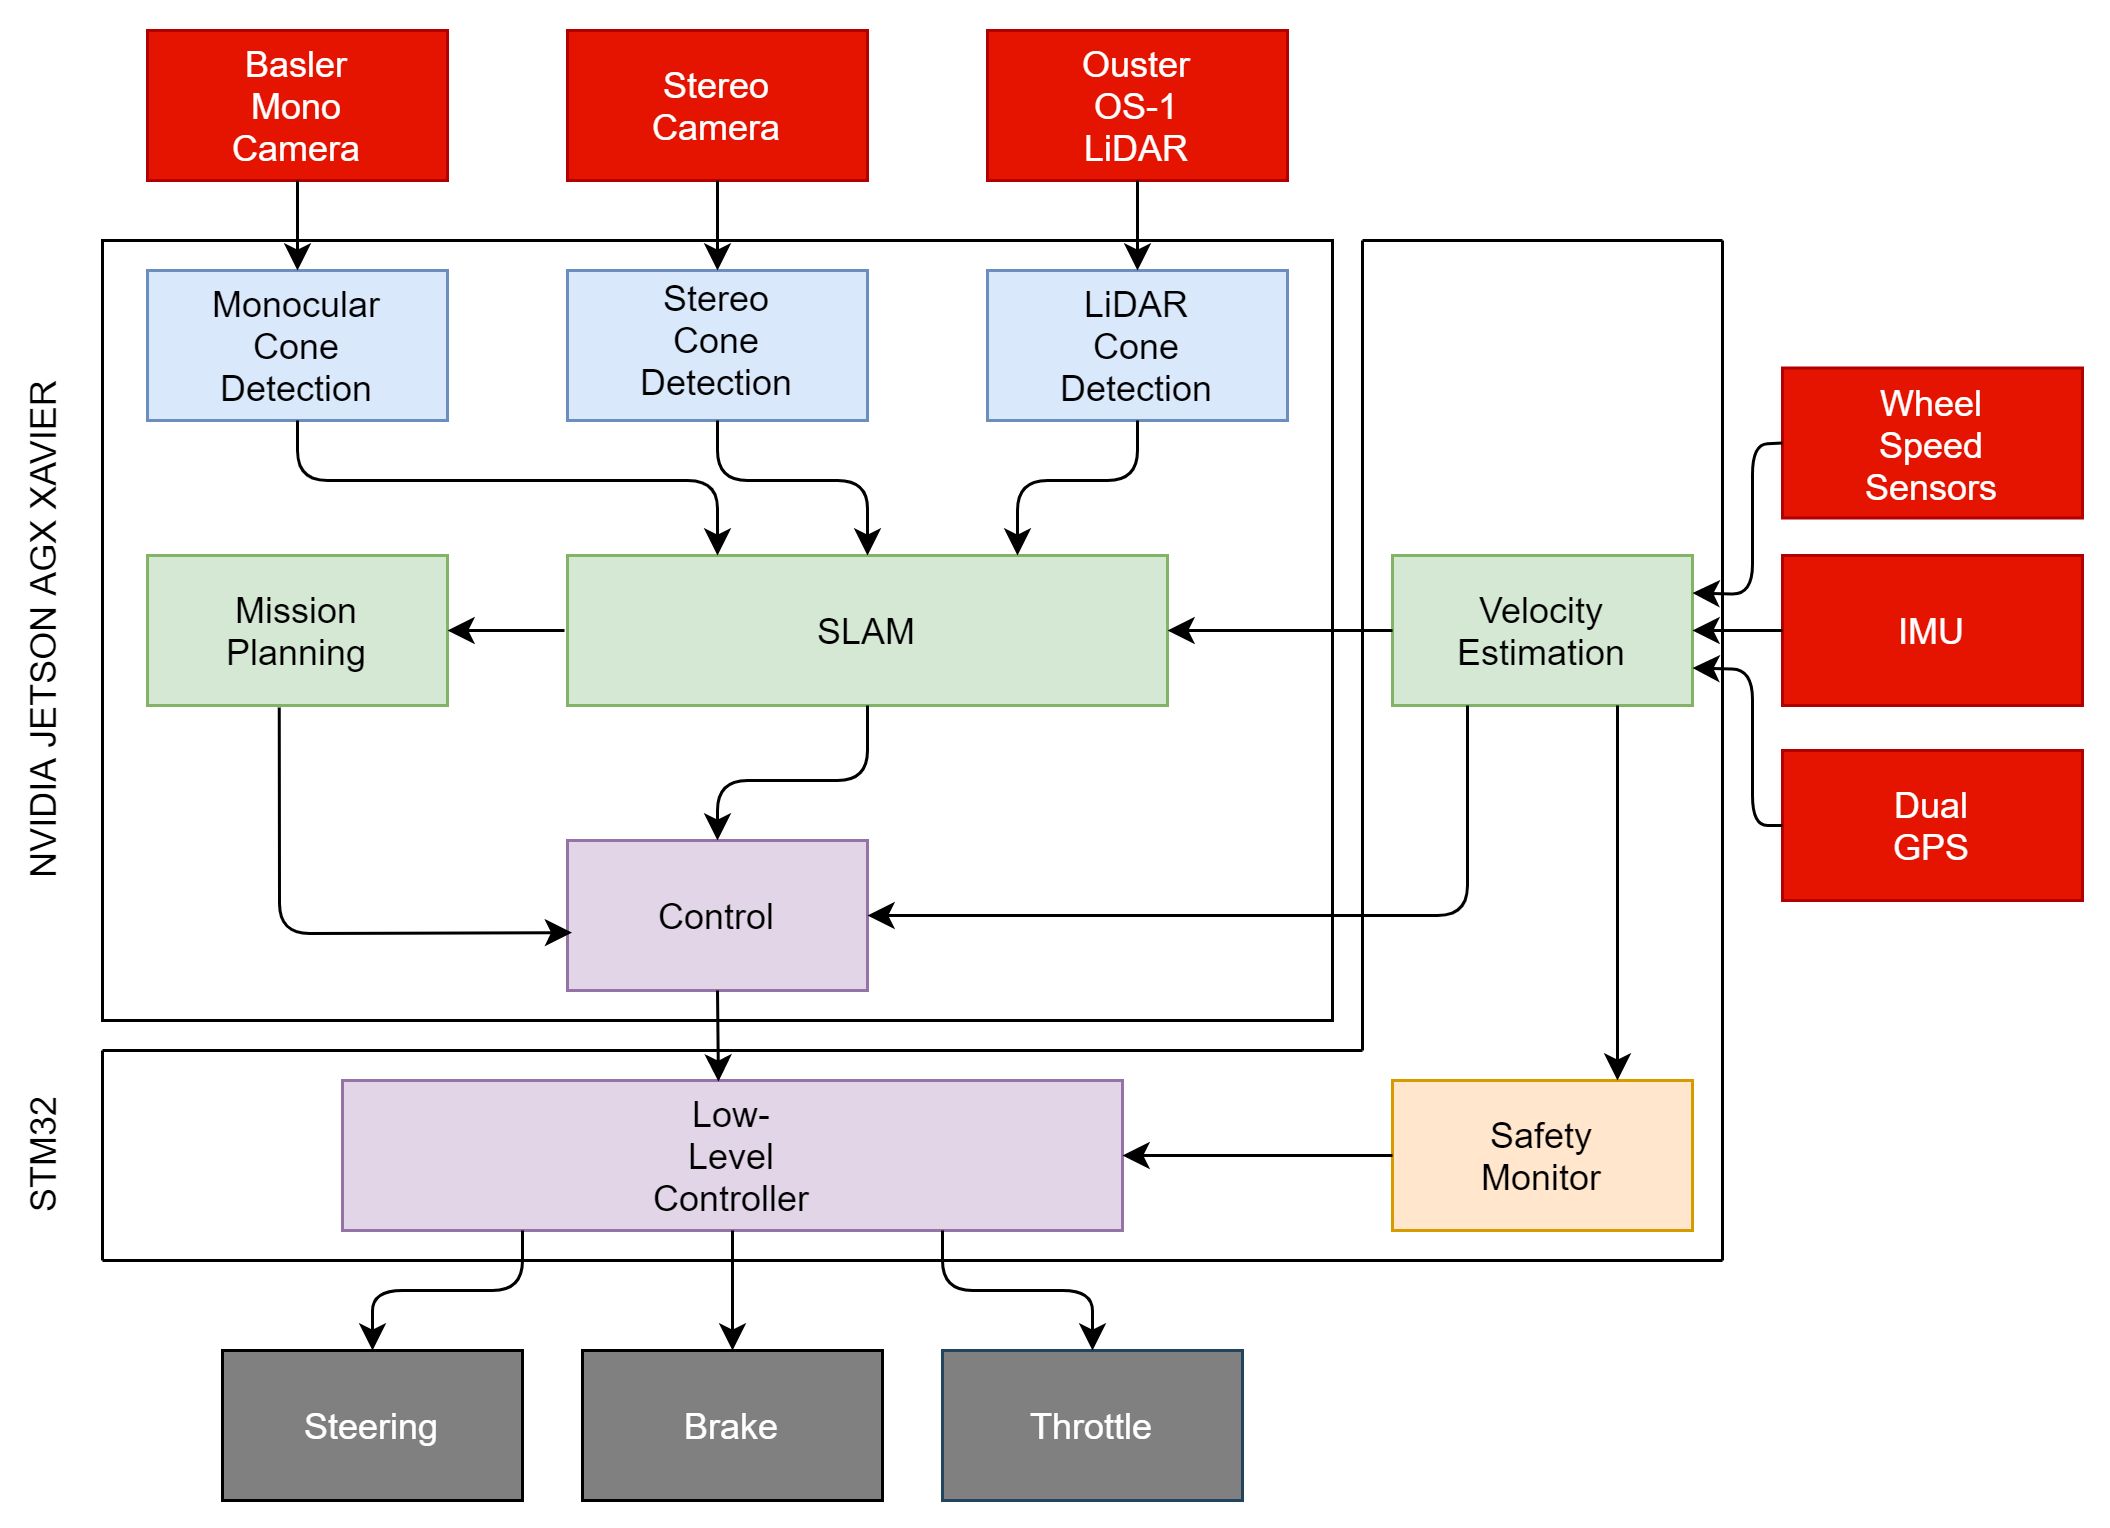
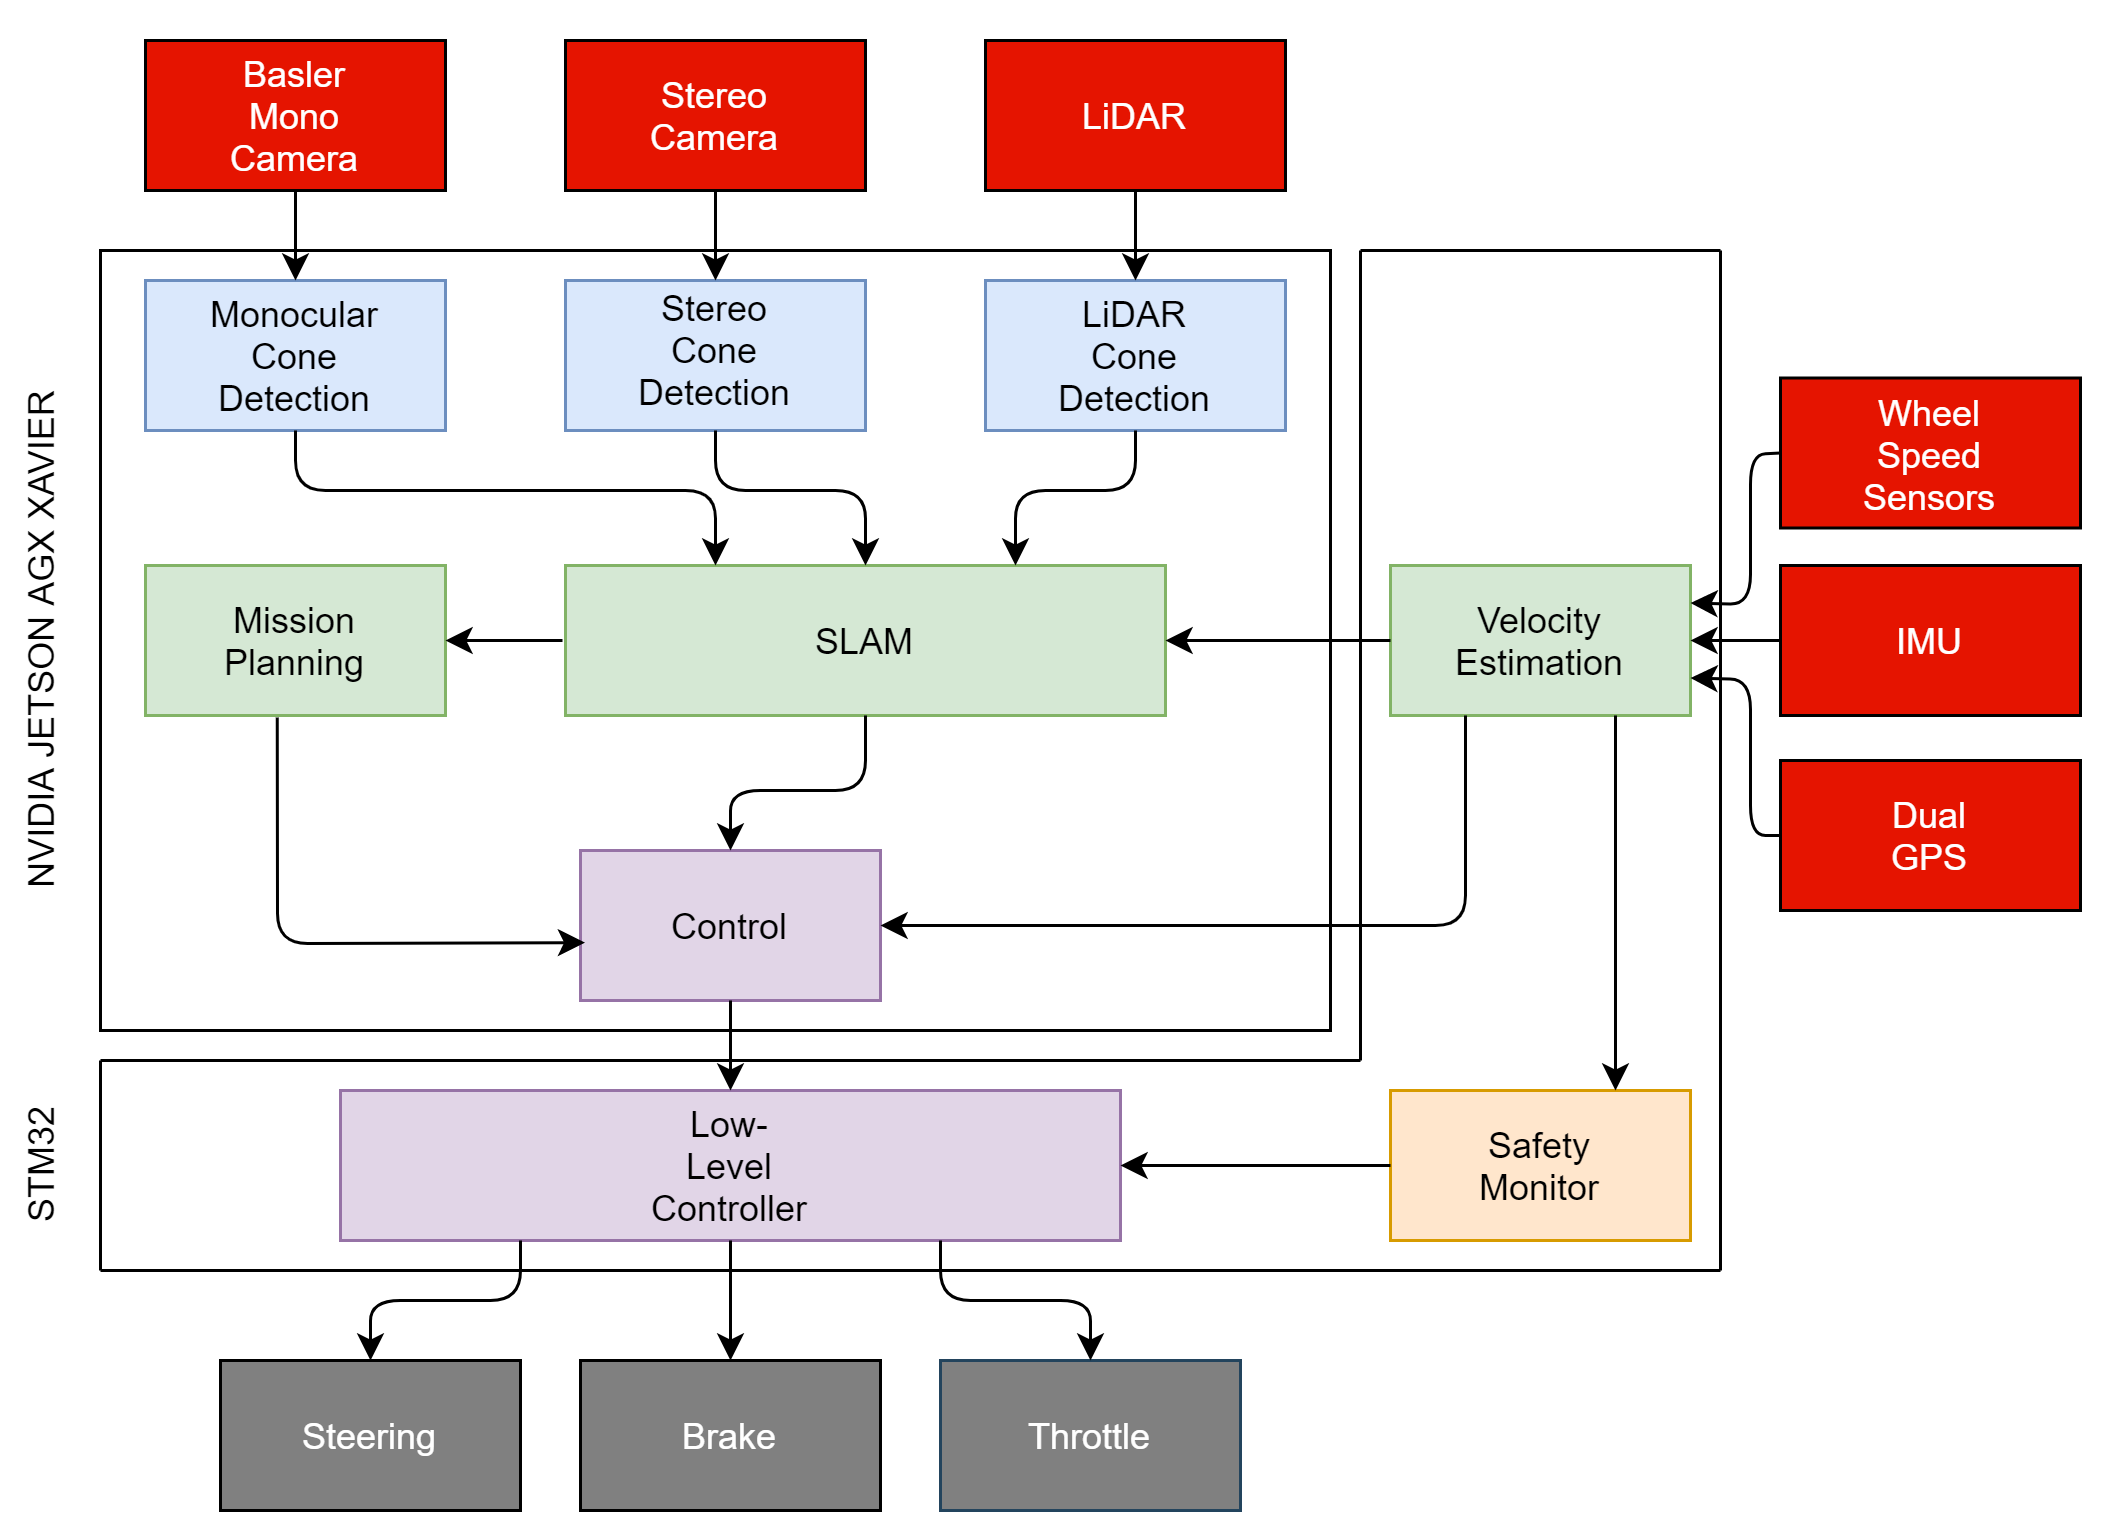
Update AS diagram

diff --git a/djsr.html b/djsr.html
@@ -61,12 +61,14 @@
 								<img width="75%" height="75%" src="images/rosgraph.png">
 							</p>
 							<h2>3D Perception</h2>
-							<p>The goal of the perception system is to detection traffic cones in the vincinity of the car and determine their color and 3D coordinates in real-time. These cone detections will be then fed as landmarks to the SLAM node to build a map of the track. The perception system takes input from multiple sensors - a mono camera, stereo camera and a 3D LiDAR. The Basler Ace 2 industrial camera was chosen for our self-developed mono and stereo camera setups. The Ouster OS1-32 LiDAR was chosen as our main LiDAR.</p>
+							<p>The goal of the perception system is to detection traffic cones in the vincinity of the car and determine their color and 3D coordinates in real-time. These cone detections will be then fed as landmarks to the SLAM node to build a map of the track. The perception system takes input from multiple sensors - a mono camera, stereo camera and a 3D LiDAR. The Basler Ace 2 industrial camera was chosen for our self-developed mono and stereo camera setups. </p>
+							<!-- The Ouster OS1-32 LiDAR was chosen as our main LiDAR. -->
 							<p>Multiple sources of visual information are chosen so as to increase the redundancy in the system and to perceive the environment reliably as only one chance is given for the trackdrive race.</p>
 
 							<h4>LiDAR 3D Object Dectection</h4>
+							<!-- Ouster OS-1 -->
 							<p align="center">
-								3D Traffic Cone Detection and Color Estimation using Ouster OS-1 LiDAR
+								3D Traffic Cone Detection and Color Estimation using LiDAR Data
 							</p>
 							<p align="center">
 								<video width="50%" height="50%" controls>
